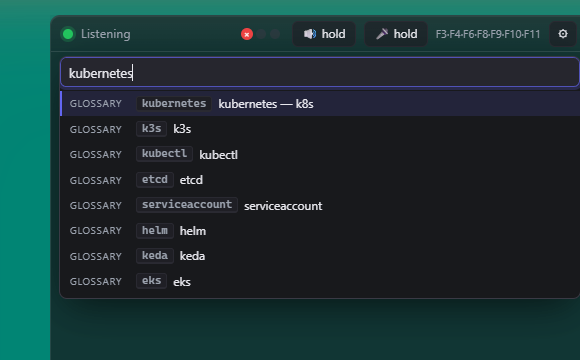
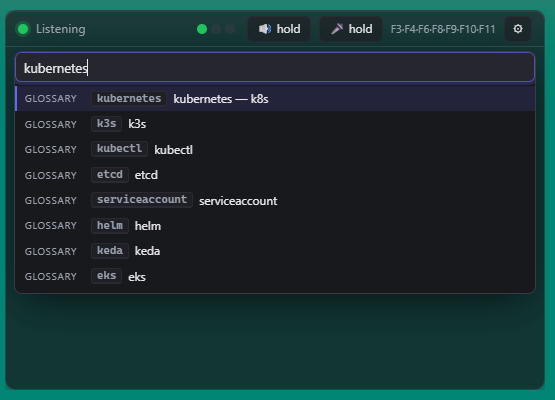
fix: Settings drag works + 900px window + capture clean screenshots
Three concrete bugs from live regression "натройки почему-то все равно
не двигаются":

1. core:window:default does NOT include allow-start-dragging — the
   onMouseDown handler called startDragging() but Tauri silently denied
   the IPC. Added allow-start-dragging to both default + tile capabilities.

2. data-tauri-drag-region alone proved unreliable on WebView2 in release
   build. Added explicit onMouseDown → getCurrentWindow().startDragging()
   as belt-and-suspenders, with button/input target exclusion so the
   ✕ Выйти click doesn't accidentally drag.

3. Settings window was 640px tall — 12 sections did not fit, page scrolled.
   Bumped to 900px + compacted .settings-section vertical spacing
   (gap/padding/margin var(--s-4) → var(--s-2)). Most sections now fit
   without scroll; users on smaller screens can still resize via edge.

Also: re-captured clean screenshots (no DevTools, no desktop clutter)
including the new settings.png showing the draggable header.

Changed region(s): [[0.0, 0.0, 1.0, 1.0]]

diff --git a/src/Settings.tsx b/src/Settings.tsx
@@ -1,5 +1,6 @@
 import { useCallback, useEffect, useRef, useState } from "react";
 import { invoke } from "@tauri-apps/api/core";
+import { getCurrentWindow } from "@tauri-apps/api/window";
 
 // Inline-toast + modal types. Replaces blocking window.prompt / alert /
 // confirm — those break Tauri WebView focus and look like 1998 UX.
@@ -304,11 +305,26 @@ export default function Settings() {
       {/* Header is the drag region — overlay window has decorations:false
        * so without an explicit drag-region the user can't move the window
        * at all (live regression 2026-05-25). The data-tauri-drag-region
-       * attribute makes the whole header draggable. */}
+       * attribute alone proved unreliable on WebView2 in release build
+       * (2nd live regression: "натройки почему-то все равно не двигаются"),
+       * so we ALSO wire an explicit onMouseDown → startDragging() handler
+       * as a belt-and-suspenders fallback. */}
       <div
         className="settings-header"
         data-tauri-drag-region
         title="Перетащи за этот заголовок чтобы подвинуть окно"
+        onMouseDown={(e) => {
+          // Only initiate drag on primary (left) button + when the target
+          // is the header itself (not a child button). The button check
+          // prevents the ✕ Выйти click from accidentally starting a drag.
+          if (e.button !== 0) return;
+          const target = e.target as HTMLElement;
+          if (target.closest("button, input, select")) return;
+          // Fire-and-forget — drag latency matters more than error reporting.
+          getCurrentWindow().startDragging().catch((err) => {
+            console.warn("startDragging failed:", err);
+          });
+        }}
       >
         <h2 style={{ marginTop: 0, marginBottom: 0 }} data-tauri-drag-region>
           ⋮⋮  Settings

diff --git a/src/styles.css b/src/styles.css
@@ -897,9 +897,9 @@ body.settings {
 .settings-section {
   display: flex;
   flex-direction: column;
-  gap: var(--s-2);
-  padding-bottom: var(--s-4);
-  margin-bottom: var(--s-4);
+  gap: var(--s-1);
+  padding-bottom: var(--s-2);
+  margin-bottom: var(--s-2);
   border-bottom: 1px solid var(--c-border-soft);
 }
 .settings-section:last-of-type {

diff --git a/src-tauri/src/lib.rs b/src-tauri/src/lib.rs
@@ -679,9 +679,12 @@ fn quit_app(window: tauri::WebviewWindow, app: tauri::AppHandle) -> Result<(), S
 fn open_settings(window: tauri::WebviewWindow, app: tauri::AppHandle) -> Result<(), String> {
     assert_overlay(&window)?;
     // Settings open inline in the overlay window — also grow window so
-    // the form is usable, then navigate to ?settings=1.
+    // the form is usable, then navigate to ?settings=1. 900px tall
+    // accommodates 12 sections without scroll on 1080p (live regression
+    // 2026-05-25: "там еще скрол есть"). On smaller screens the window
+    // still resizes naturally — user can shrink via window edge.
     if let Some(w) = app.get_webview_window("overlay") {
-        let _ = w.set_size(tauri::LogicalSize::new(720.0, 640.0));
+        let _ = w.set_size(tauri::LogicalSize::new(760.0, 900.0));
         let _ = w.center();
         let _ = w.show();
         let _ = w.set_focus();